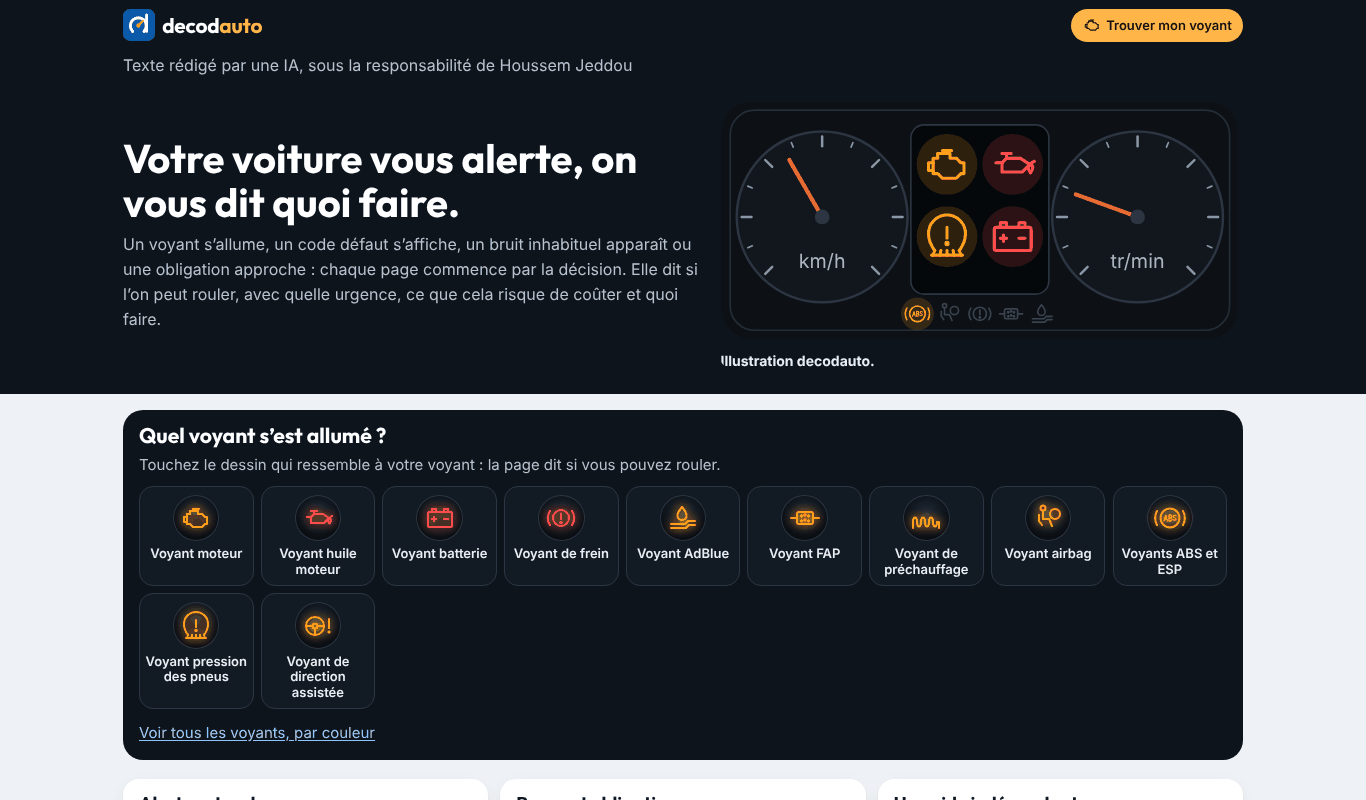
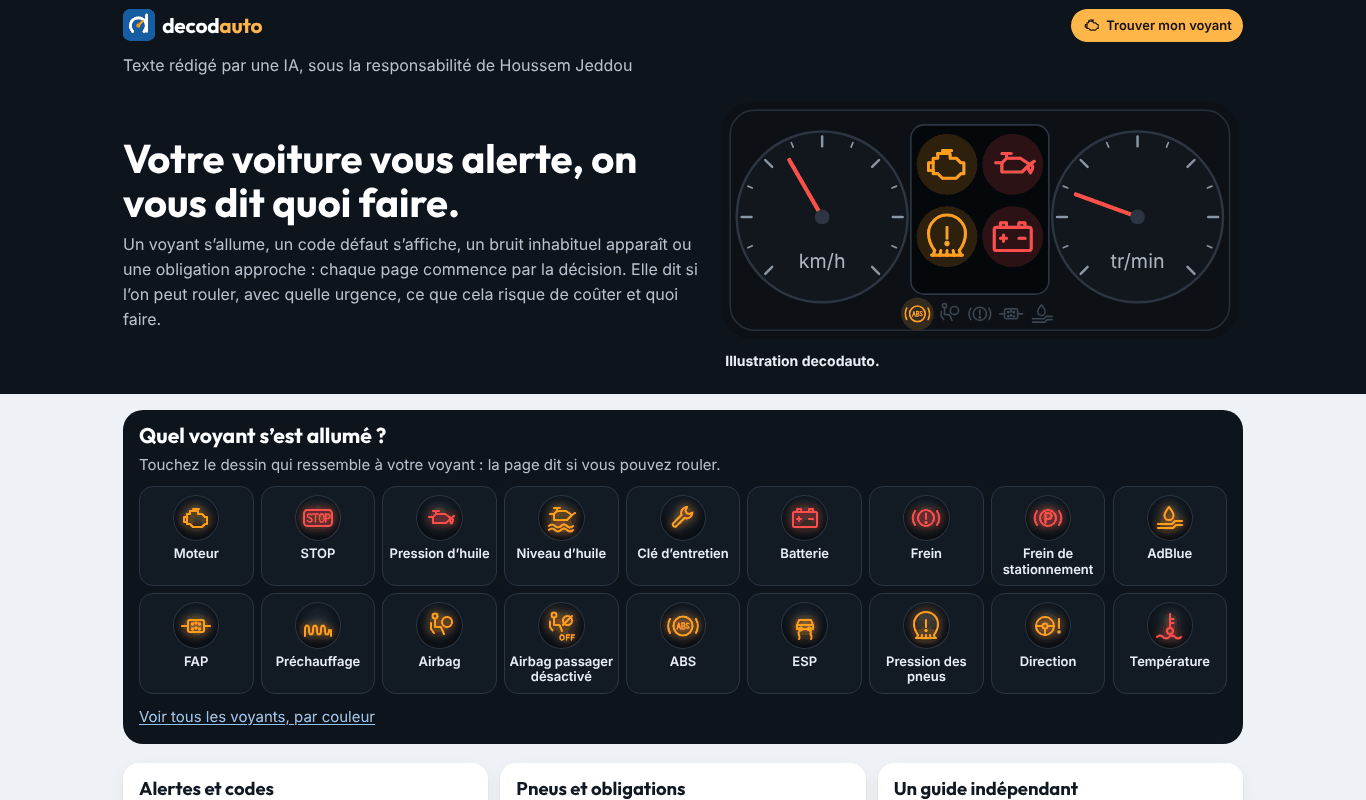
Lot F1.2, corrections : captures et mesures refaites (grille de 18 dessins, sommaire état long et état court)
Claude-Session: https://claude.ai/code/session_01D9NChPBVJTio8astCmYhoa

diff --git a/travaux/etape-13/f1/captures/README.md b/travaux/etape-13/f1/captures/README.md
@@ -1,6 +1,6 @@
 # Captures et mesures de la démonstration du format 2 (lot F1, tâche F1.2)
 
-Prises le 15/11/2026 par `capturer.cjs` (Chromium et Playwright préinstallés de l'environnement de Claude), sur :
+Prises le 15/11/2026, refaites le 16/11/2026 après les corrections de la revue (brief `F1.2-corrections.md`), par `capturer.cjs` (Chromium et Playwright préinstallés de l'environnement de Claude), sur :
 - la **démonstration** : `npm run demo:format2` (construction `dist-demo-format2`, jamais déployée), servie en local ;
 - le **pilote validé** (piste B) : maquette de `generer.py` (branche `etape-13/pilote-f1`), régénérée avec les mêmes
   pictogrammes et la même base, servie en local, sa barre de commandes masquée (comme pour ses propres mesures).
@@ -11,6 +11,8 @@ Fichiers : `<demo|pilote>-<accueil|moteur|adblue>-<375-ecran|375-page|1366-ecran
 - Police chargée : page ouverte deux fois (police Outfit en cache : `font-display: optional` l'affiche) ; police de
   secours : requêtes de `/polices/` (pilote : `/fonts/`) bloquées. Même fichier de police (octet pour octet) dans les deux.
 - `mesures.json` : mesures brutes, en pixels CSS depuis le haut de la page.
+- `demo-sommaire-<long|court>-<375|1366>-<chargee|secours>.png` : sommaire du voyant moteur, état long (titres H2
+  entiers, la page telle quelle) et état court (libellés courts du pilote posés dans la page pour la capture seulement).
 
 ## Pages voyants (375 × 667, sauf la dernière colonne)
 
@@ -21,22 +23,22 @@ illustration juste après le bloc « Notices / Base du coût » (précision du 1
 
 | Page | Source | Police | Bas de la mention | Bas de la 1re situation (2a) | Bas de l'encadré | Bas de « Notices / Base du coût » | Haut de l'illustration (2i) | Illustration juste après le bloc | Hauteur de la page | Hauteur à 1366 px |
 |---|---|---|---|---|---|---|---|---|---|---|
-| moteur | démonstration | chargée | 99 | 522 | 1515 | 1939 | 1952 | oui | 12667 | 8191 |
-| moteur | démonstration | secours | 99 | 522 | 1515 | 1939 | 1952 | oui | 12717 | 8191 |
+| moteur | démonstration | chargée | 99 | 522 | 1515 | 1939 | 1952 | oui | 12470 | 8141 |
+| moteur | démonstration | secours | 99 | 522 | 1515 | 1939 | 1952 | oui | 12521 | 8141 |
 | moteur | pilote | chargée | 99 | 522 | 1515 | 1817 | 1829 | oui | 10992 | 7607 |
 | moteur | pilote | secours | 99 | 522 | 1515 | 1817 | 1829 | oui | 11042 | 7607 |
-| adblue | démonstration | chargée | 99 | 601 | 2222 | 2740 | 2753 | oui | 14122 | 8568 |
-| adblue | démonstration | secours | 99 | 601 | 2222 | 2740 | 2753 | oui | 14122 | 8593 |
+| adblue | démonstration | chargée | 99 | 601 | 2222 | 2740 | 2753 | oui | 13870 | 8456 |
+| adblue | démonstration | secours | 99 | 601 | 2222 | 2740 | 2753 | oui | 13870 | 8482 |
 | adblue | pilote | chargée | 99 | 601 | 2222 | 2561 | 2574 | oui | 6799 | 4723 |
 | adblue | pilote | secours | 99 | 601 | 2222 | 2561 | 2574 | oui | 6799 | 4749 |
 
 ## Accueil (375 × 667, sauf la dernière colonne)
 
-Règle 2k : la grille des pictogrammes commence dans le premier écran du téléphone.
+Règle 2k : la grille des pictogrammes (18 dessins) commence dans le premier écran du téléphone.
 
 | Source | Police | Bas de la mention | Haut de la grille des voyants | Hauteur de la page | Hauteur à 1366 px |
 |---|---|---|---|---|---|
-| démonstration | chargée | 99 | 445 | 1857 | 1431 |
-| démonstration | secours | 99 | 478 | 1890 | 1431 |
+| démonstration | chargée | 99 | 445 | 2027 | 1415 |
+| démonstration | secours | 99 | 478 | 2059 | 1415 |
 | pilote | chargée | 99 | 445 | 1696 | 1116 |
 | pilote | secours | 99 | 478 | 1729 | 1116 |
